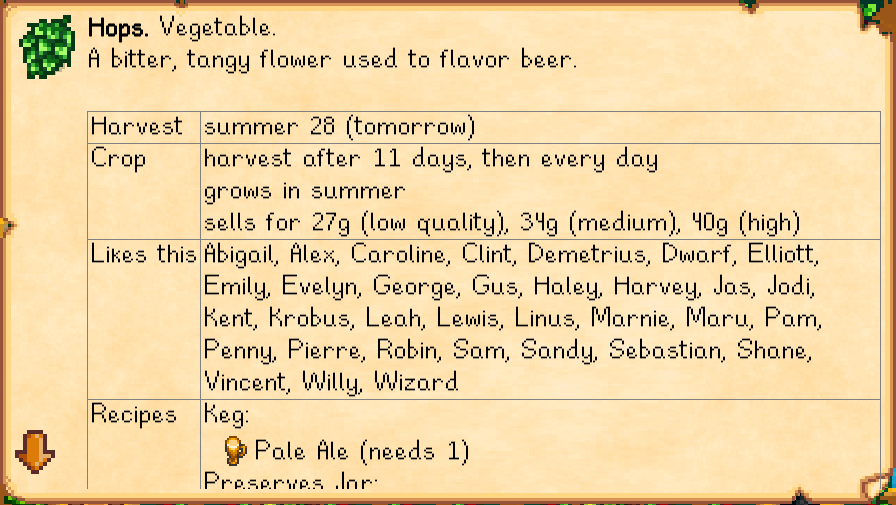
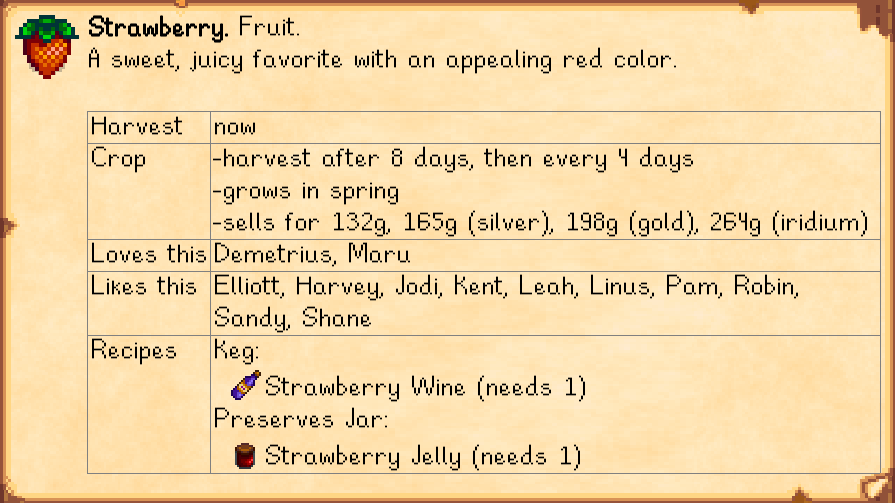
tweak crop field style, update screenshots

diff --git a/LookupAnything/Framework/Subjects/ItemSubject.cs b/LookupAnything/Framework/Subjects/ItemSubject.cs
@@ -143,20 +143,20 @@ namespace Pathoschild.LookupAnything.Framework.Subjects
                     List<string> summary = new List<string>();
 
                     // harvest
-                    summary.Add($"harvest after {daysToFirstHarvest} {GameHelper.Pluralise(daysToFirstHarvest, "day")}" + (crop.regrowAfterHarvest != -1 ? $", then every {GameHelper.Pluralise(crop.regrowAfterHarvest, "day", $"{crop.regrowAfterHarvest} days")}" : ""));
+                    summary.Add($"-harvest after {daysToFirstHarvest} {GameHelper.Pluralise(daysToFirstHarvest, "day")}" + (crop.regrowAfterHarvest != -1 ? $", then every {GameHelper.Pluralise(crop.regrowAfterHarvest, "day", $"{crop.regrowAfterHarvest} days")}" : ""));
 
                     // seasons
-                    summary.Add($"grows in {string.Join(", ", crop.seasonsToGrowIn)}");
+                    summary.Add($"-grows in {string.Join(", ", crop.seasonsToGrowIn)}");
 
                     // drops
                     if (crop.minHarvest != crop.maxHarvest && crop.chanceForExtraCrops > 0)
-                        summary.Add($"drops {crop.minHarvest} to {crop.maxHarvest} ({Math.Round(crop.chanceForExtraCrops * 100, 2)}% chance of extra crops)");
+                        summary.Add($"-drops {crop.minHarvest} to {crop.maxHarvest} ({Math.Round(crop.chanceForExtraCrops * 100, 2)}% chance of extra crops)");
                     else if (crop.minHarvest > 1)
-                        summary.Add($"drops {crop.minHarvest}");
+                        summary.Add($"-drops {crop.minHarvest}");
 
                     // crop sale price
                     Item drop = GameHelper.GetObjectBySpriteIndex(crop.indexOfHarvest);
-                    summary.Add($"sells for {SaleValueField.GetSummary(this.GetSaleValue(drop, false), 1)}");
+                    summary.Add($"-sells for {SaleValueField.GetSummary(this.GetSaleValue(drop, false), 1)}");
 
                     // generate field
                     yield return new GenericField("Crop", string.Join(Environment.NewLine, summary));
